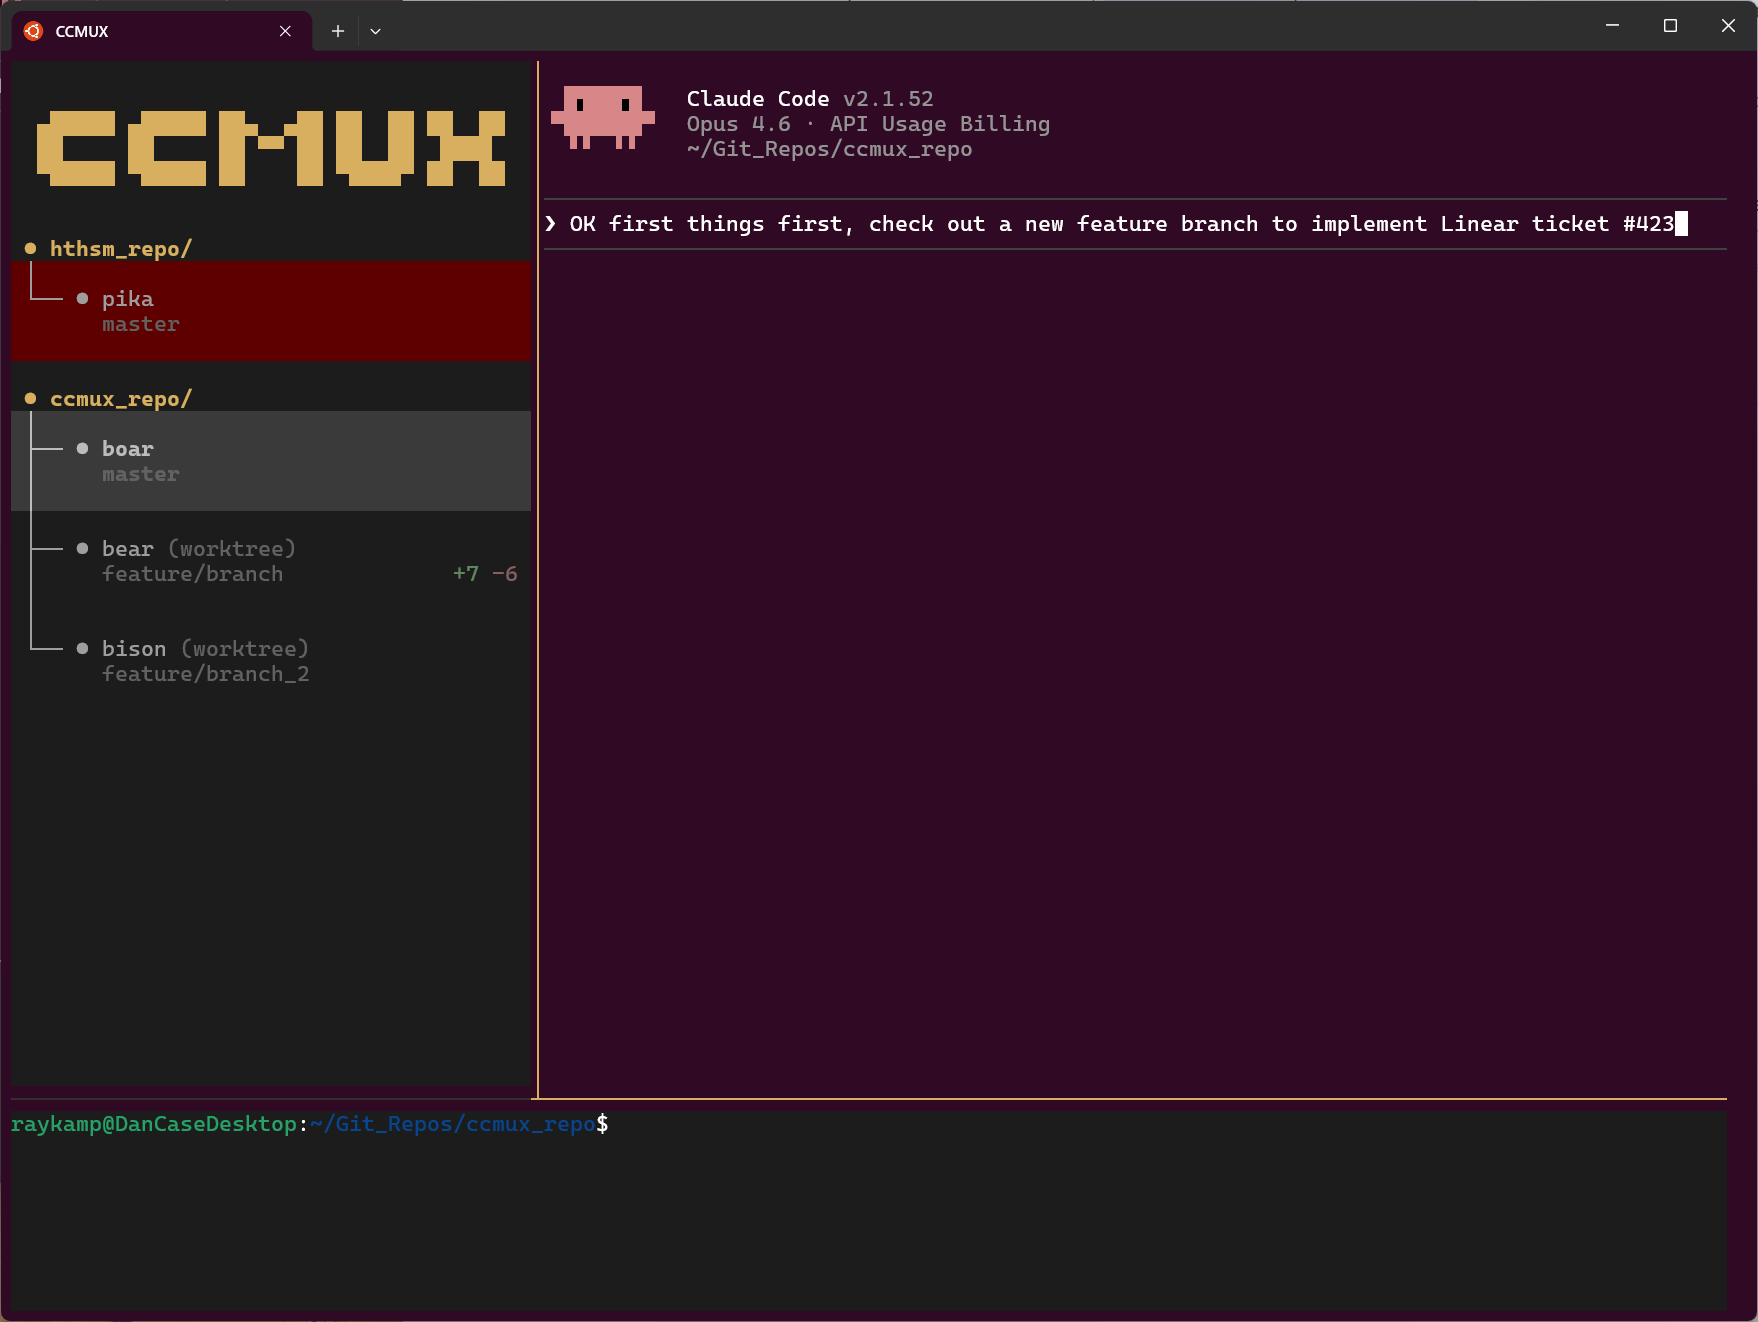
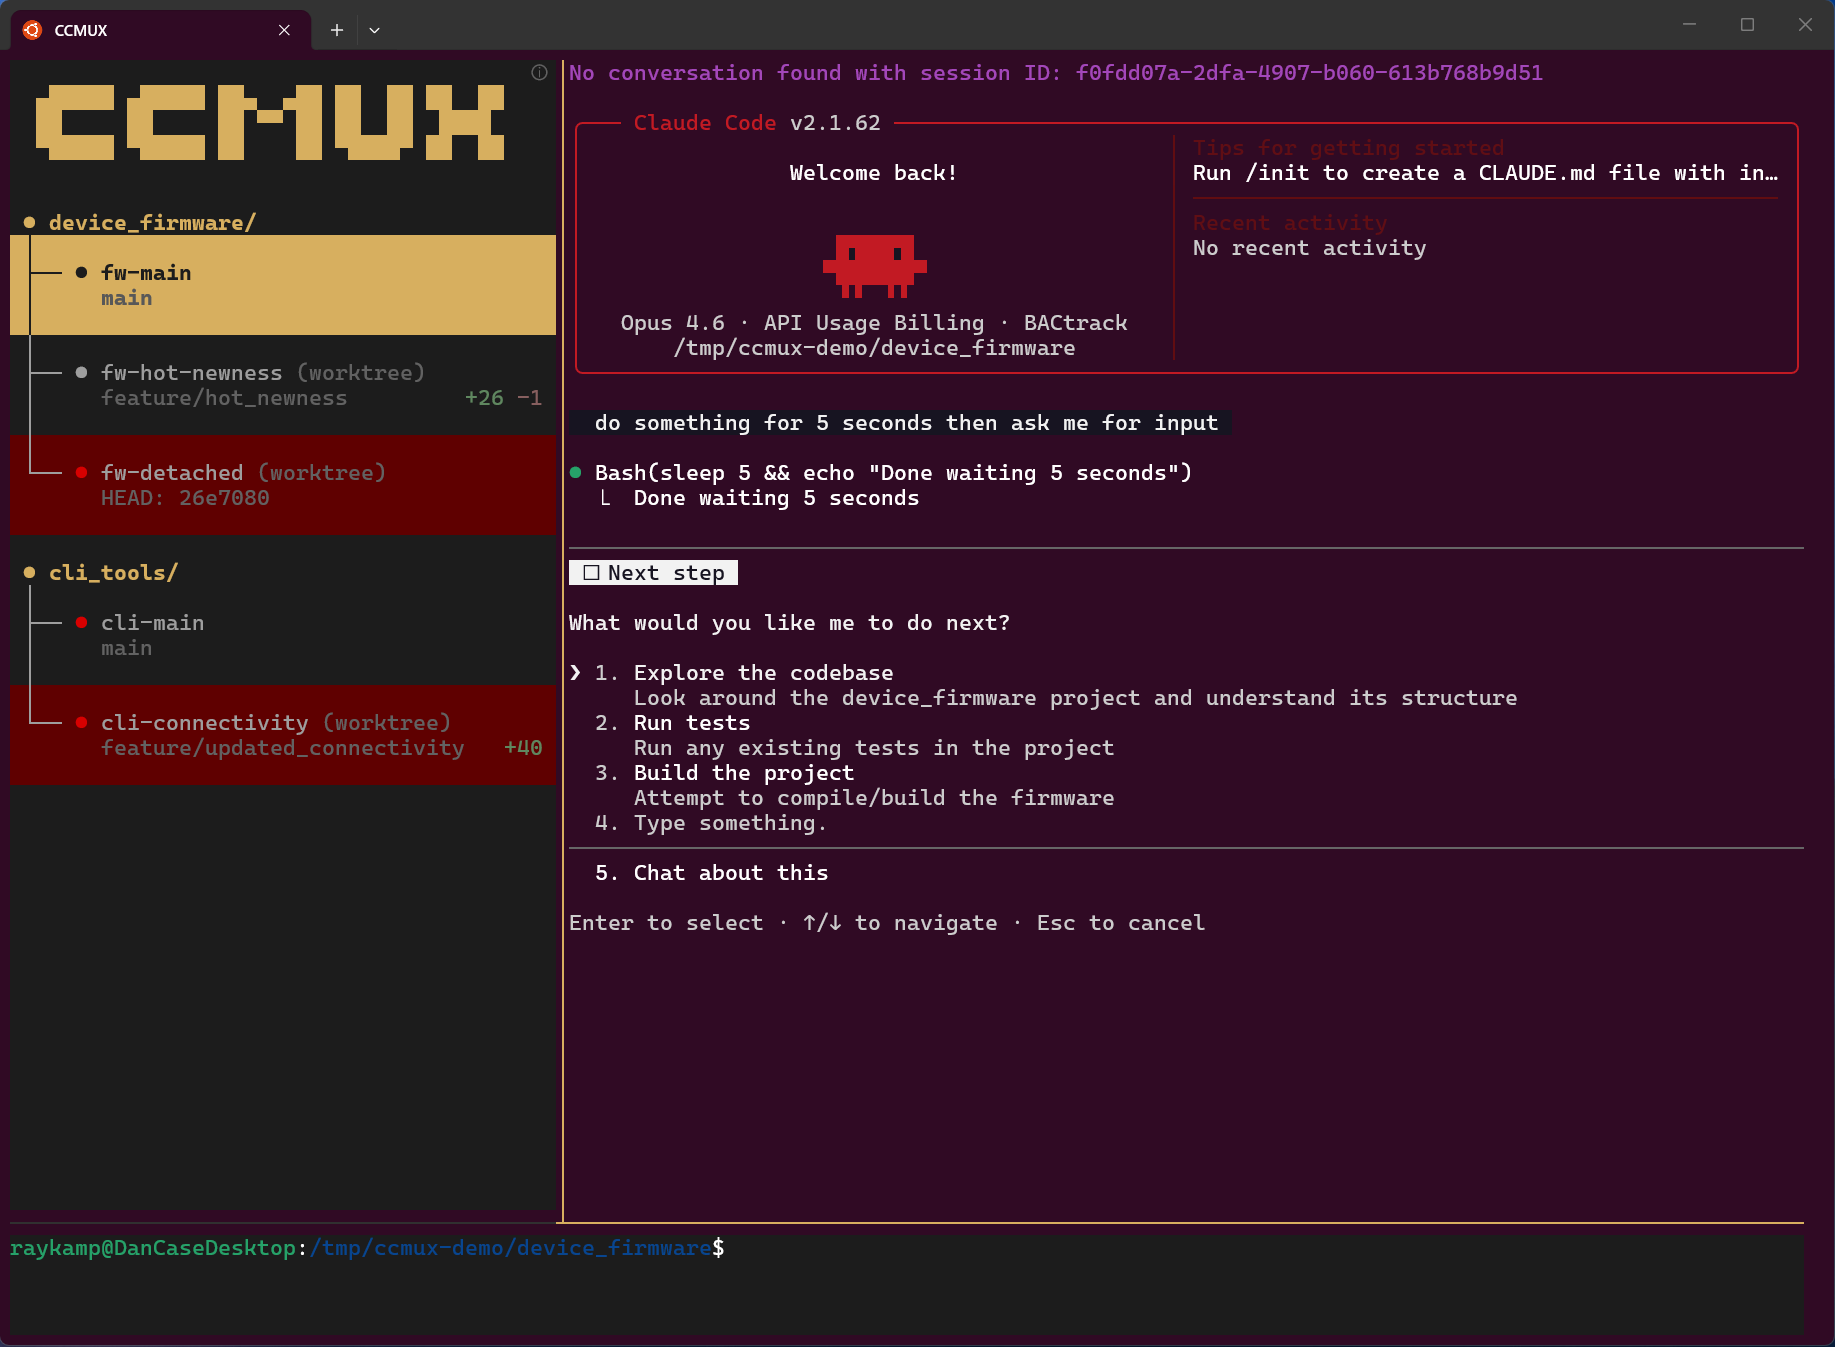
fix: Ensure demo sessions survive by re-activating after creation
Add `ccmux activate -y` step to demo-setup.sh to fix "Tmux session no
longer exists" on `ccmux attach`. Sessions created during the script
inherit TMUX=1 and die; killing stale sessions and re-activating with a
clean environment makes them immediately attachable.

Also adds a `path` positional arg to `ccmux new` so sessions can be
created from any directory without cd-ing first, updates the README
screenshot, and prevents the script from being sourced.

diff --git a/ccmux/session_ops.py b/ccmux/session_ops.py
@@ -246,11 +246,16 @@ def migrate_claude_session(old_path: str, new_path: str, session_id: str) -> boo
 # session_new decomposed
 # ---------------------------------------------------------------------------
 
-def _validate_repo_context() -> tuple[Path, str]:
+def _validate_repo_context(path: Optional[str] = None) -> tuple[Path, str]:
     """Validate git repo and return (repo_root, default_branch). Raises on error."""
+    if path is not None:
+        resolved = Path(path).resolve()
+        if not resolved.is_dir():
+            raise InvalidArgumentError(f"Path is not a directory: {resolved}")
+        os.chdir(resolved)
     repo_root = get_repo_root()
     if repo_root is None:
-        raise NotInGitRepoError()
+        raise NotInGitRepoError(path or "")
     os.chdir(repo_root)
 
     default_branch = (
@@ -348,9 +353,9 @@ def _reactivate_single_orphan(sess) -> None:
         console.print(f"  [yellow]\u26a0[/yellow] Could not reactivate '{name}'")
 
 
-def do_session_new(name: Optional[str] = None, worktree: bool = False, yes: bool = False) -> None:
+def do_session_new(name: Optional[str] = None, worktree: bool = False, yes: bool = False, path: Optional[str] = None) -> None:
     """Create a new Claude Code session."""
-    repo_root, default_branch = _validate_repo_context()
+    repo_root, default_branch = _validate_repo_context(path)
     create_as_worktree = _resolve_session_type(repo_root, worktree, yes)
     name = _generate_session_name(repo_root, create_as_worktree, name)
 

diff --git a/ccmux/cli.py b/ccmux/cli.py
@@ -54,13 +54,14 @@ def session_which() -> None:
 
 @app.command(name="new")
 def session_new(
-    name: Optional[str] = None,
+    path: Optional[str] = None,
     *,
+    name: Annotated[Optional[str], Parameter(name=["-n", "--name"])] = None,
     worktree: Annotated[bool, Parameter(name=["-w", "--worktree"])] = False,
     yes: Annotated[bool, Parameter(name=["-y", "--yes"], negative="")] = False,
 ) -> None:
     """Create a new Claude Code session in main repo or as a git worktree."""
-    do_session_new(name=name, worktree=worktree, yes=yes)
+    do_session_new(name=name, worktree=worktree, yes=yes, path=path)
 
 
 @app.command(name="list")

diff --git a/ccmux/exceptions.py b/ccmux/exceptions.py
@@ -45,8 +45,11 @@ class SessionExistsError(CcmuxError):
 class NotInGitRepoError(CcmuxError):
     """The current directory is not inside a git repository."""
 
-    def __init__(self):
-        super().__init__("Not inside a git repository.")
+    def __init__(self, path: str = ""):
+        if path:
+            super().__init__(f"Not inside a git repository: {path}")
+        else:
+            super().__init__("Not inside a git repository.")
 
 
 class DefaultBranchError(CcmuxError):

diff --git a/tests/test_exceptions.py b/tests/test_exceptions.py
@@ -81,6 +81,11 @@ class TestNotInGitRepoError:
         assert str(e) == "Not inside a git repository."
         assert e.exit_code == 1
 
+    def test_message_with_path(self):
+        e = NotInGitRepoError("/tmp")
+        assert str(e) == "Not inside a git repository: /tmp"
+        assert e.exit_code == 1
+
 
 class TestDefaultBranchError:
     def test_message(self):
